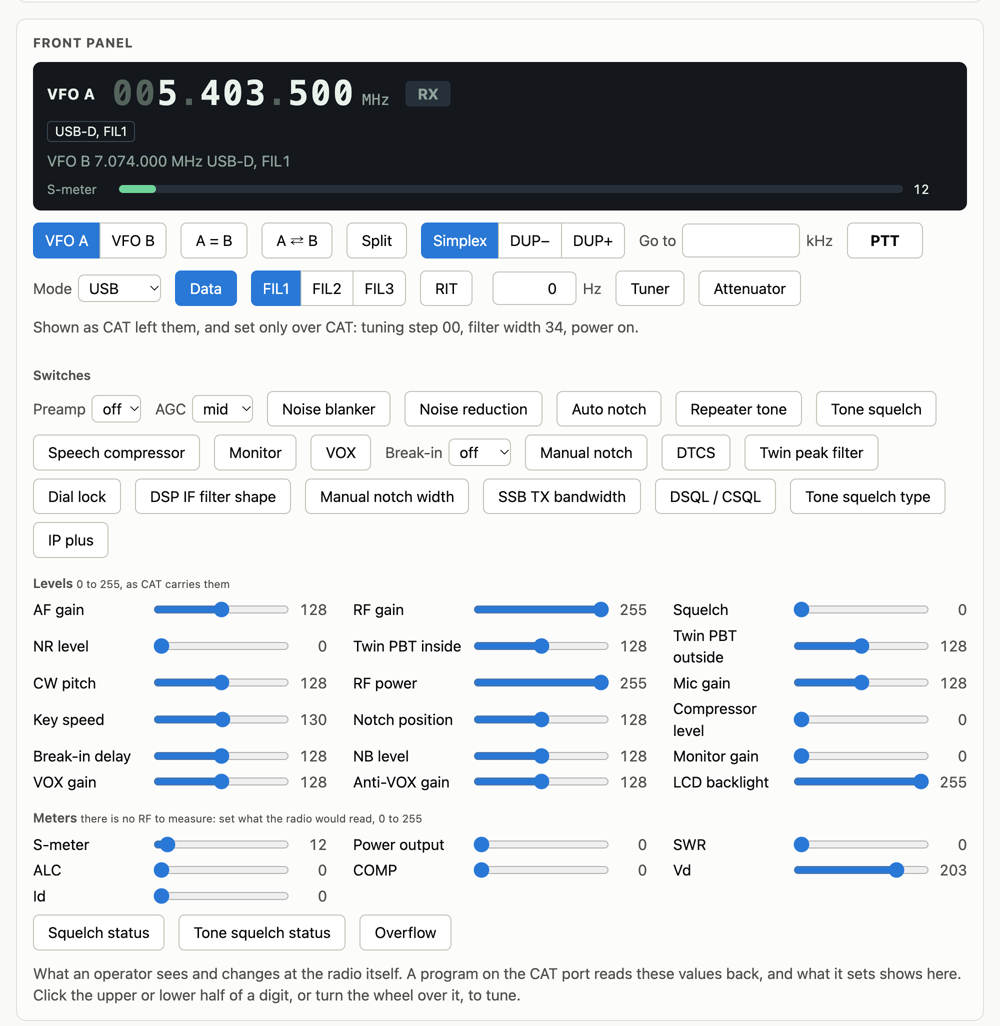
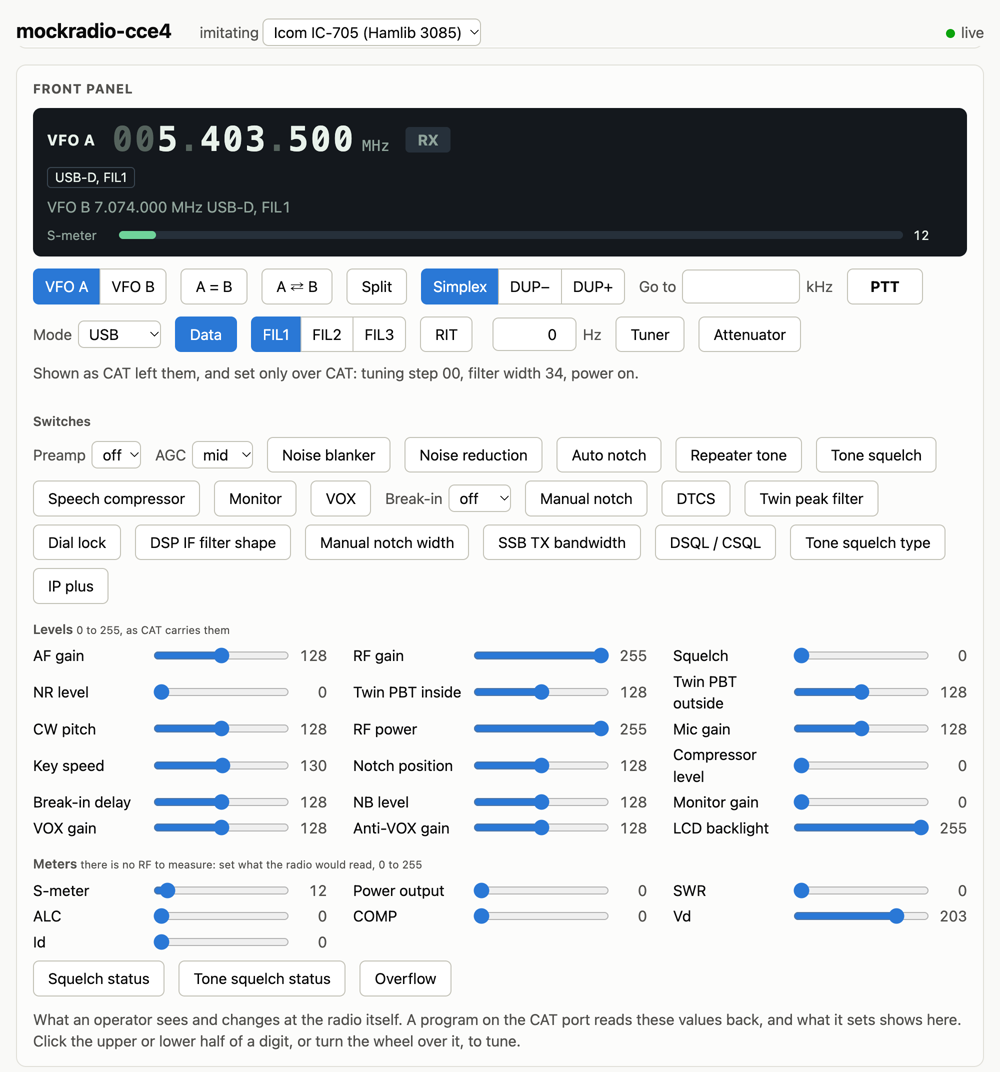
Show the radio selector above the front panel in the README

Changed region(s): [[0.031, 0.0, 0.992, 0.9981], [0.775, 0.8109, 0.961, 0.8733]]

diff --git a/README.md b/README.md
@@ -2,9 +2,9 @@
 
 A ham radio that isn't one. ESP32-S3 firmware that plugs into a computer or an Android phone over USB and shows up as a transceiver with a built-in sound card and CAT port, an Icom IC-705 or a Xiegu G90, so any software that drives a radio through Hamlib, or speaks CI-V itself, and takes audio from a sound card (WSJT-X, fldigi, VARA, Data2G and the like) drives it exactly as it would a real rig. Nothing in the firmware is specific to one modem. There is no RF. What the mock adds is a controllable channel: loopback, a parrot that plays your transmission back, noise at a set SNR, HF fading, and a link between two boards, so that two stations on one bench can hold a real ARQ session over a fake radio path.
 
-![The web console's front panel: the imitated IC-705's VFOs, mode and filter, switches, levels and meters](docs/images/console-panel.png)
+![The web console: the radio imitated, chosen in the header (here an Icom IC-705), and its front panel with VFOs, mode and filter, switches, levels and meters](docs/images/console-panel.png)
 
-*The board's web console shows a front panel for the radio it imitates. It's built from that radio's own CAT tables. What a program sets over CAT shows up here, and a change made here goes through the same CAT parser, so the program sees it on its next poll.*
+*The board's web console. The header chooses the radio to imitate, an IC-705 or a G90, and the front panel below is that radio's. It's built from that radio's own CAT tables. What a program sets over CAT shows up here, and a change made here goes through the same CAT parser, so the program sees it on its next poll.*
 
 ## What works
 
